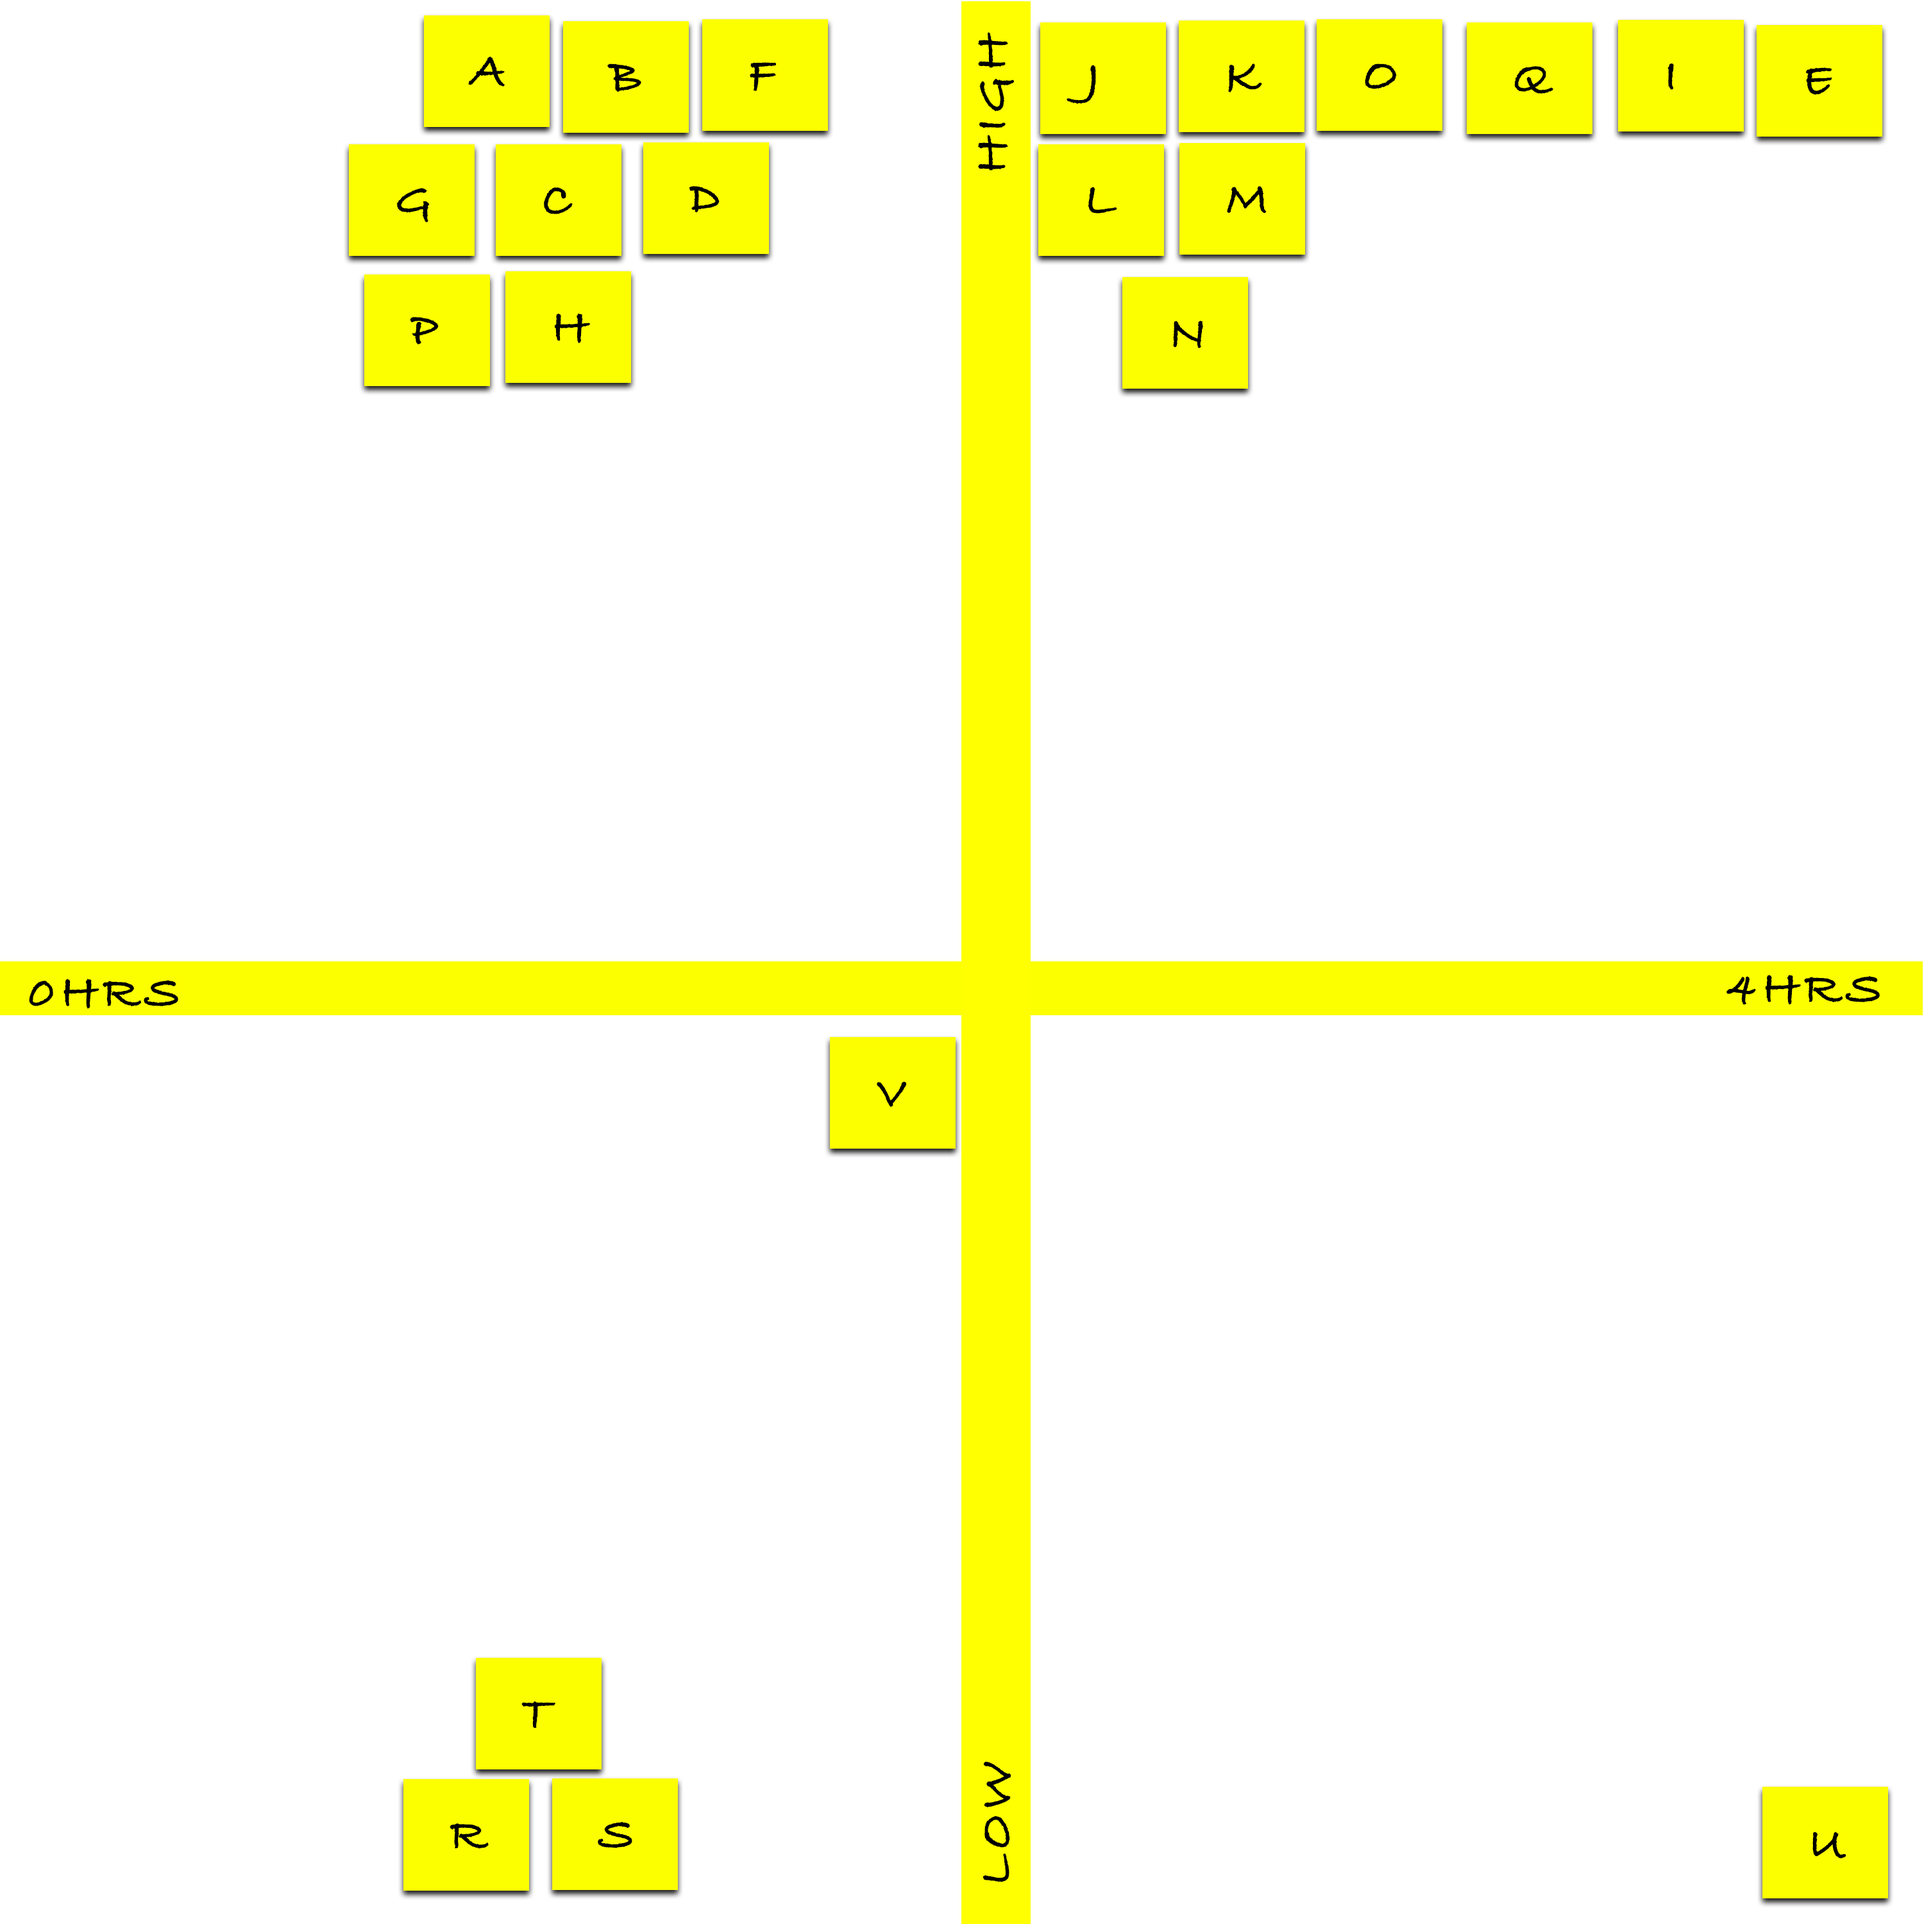
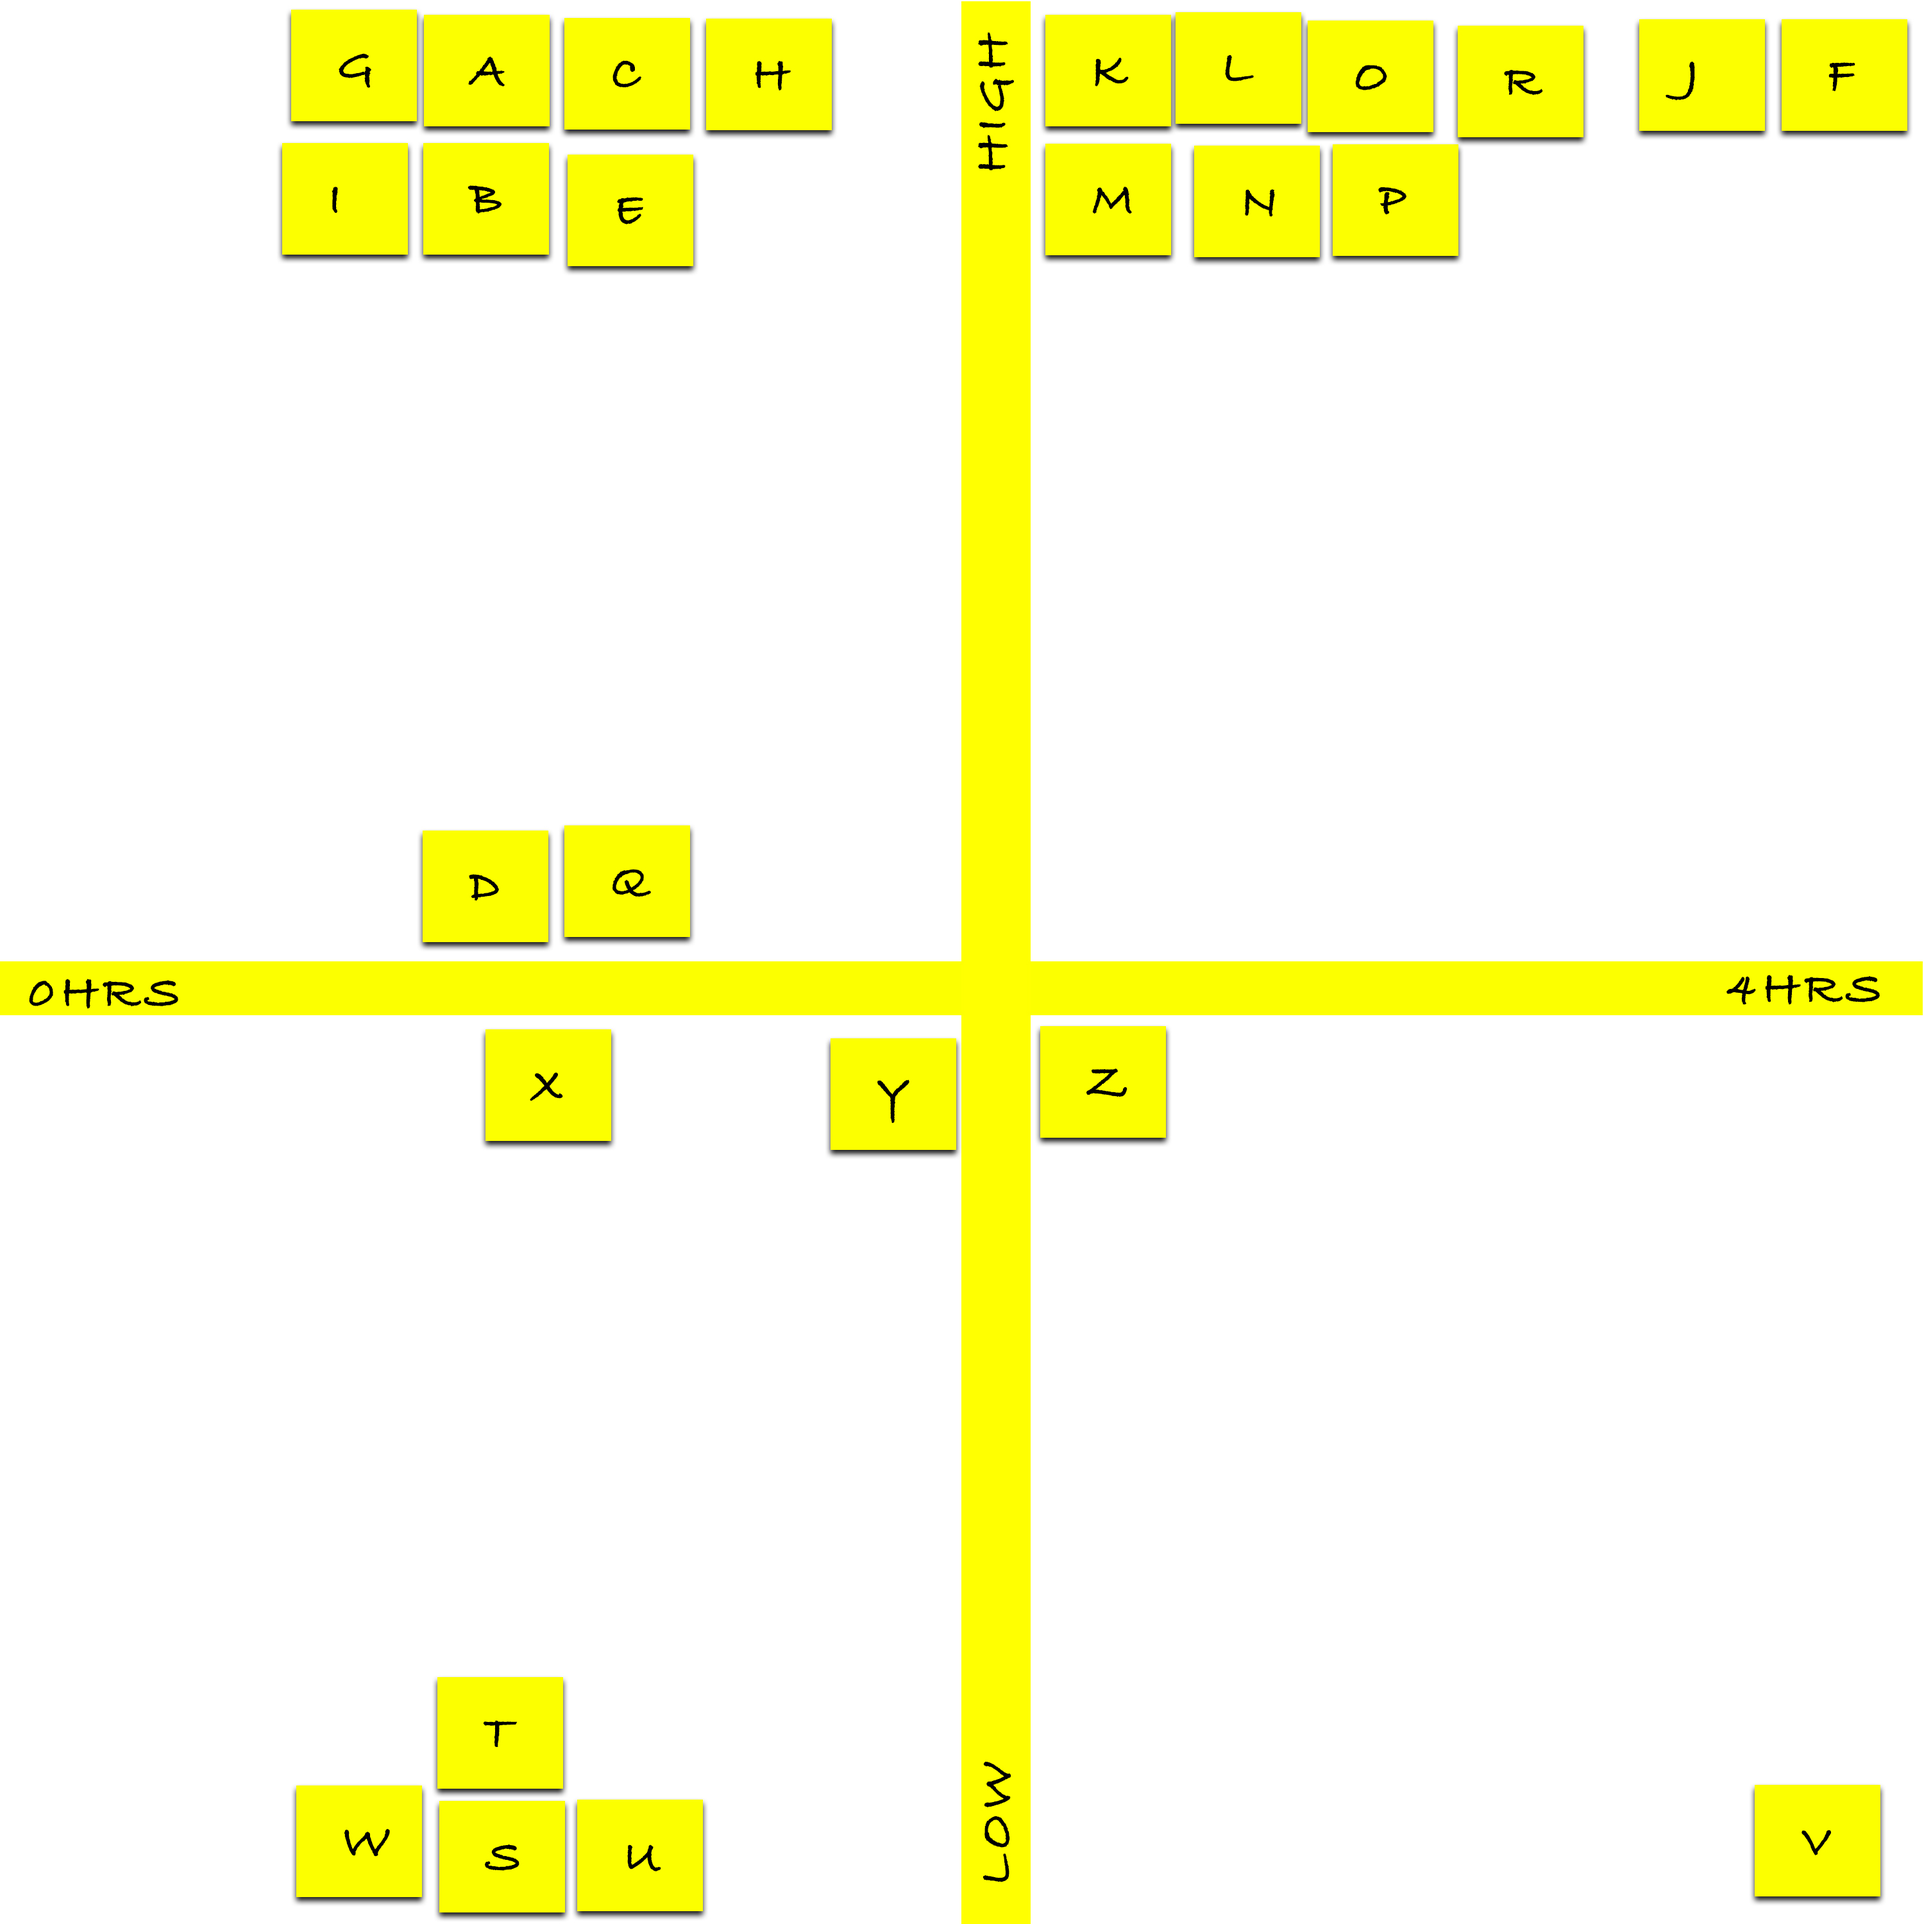
backend README updates

diff --git a/planning/README.md b/planning/README.md
@@ -35,7 +35,7 @@ For my unit 02 project, I am going to create a to-do list tracker for a company 
 - [Link](https://docs.google.com/spreadsheets/d/1DRhpnHYU-LVnRYKSALXm_xbMCZ3FsTs6Zl-VJ1MU49E/edit?usp=sharing)
 
 ## Time/Priority Matrix
-- [Link](https://res.cloudinary.com/dpjdvsigb/image/upload/v1596221477/project-2-assets/backend-time-priority-matrix_pvi4e0.jpg)
+- [Link](https://res.cloudinary.com/dpjdvsigb/image/upload/v1596721596/project-2-assets/backend-time-priority-matrix_bk6ciz.jpg)
 
 ## MVP (examples)
 - Backend server and database to hold employee and to-do list data
@@ -96,14 +96,35 @@ For my unit 02 project, I am going to create a to-do list tracker for a company 
 
 ## Code Snippet
 
+- The code snippet below creates an employee by making the user entry a new object and facilitating a post request to the server to add the object to the database.
+
 ```
-function reverse(string) {
-	// here is the code to reverse a string of text
+const createEmployee = async () => {
+    const newEmployee = {
+        name: $('#nameinput').val(),
+        title: $('#titleinput').val(),
+        photo: $('#photoinput').val()
+    }
+
+    const response = await fetch(`${URL}`, {
+        method: "post",
+        headers: {
+            "Content-Type": "application/json"
+        },
+        body: JSON.stringify(newEmployee)
+    })
+
+    $('#nameinput').val("")
+    $('#titleinput').val("")
+    $('#photoinput').val("")
+
+    $employeeCard.empty();
+    getEmployees();
 }
 ```
 
 ## Issues and Resolutions
 
 #### SAMPLE
-- **ERROR**: app.js:34 Uncaught SyntaxError: Unexpected identifier                       
-- **RESOLUTION**: Missing comma after first object in sources {} object
+- **ERROR**: Error. Cannot PUT.                       
+- **RESOLUTION**: Removed a "/" in my fetch URL to the database.
